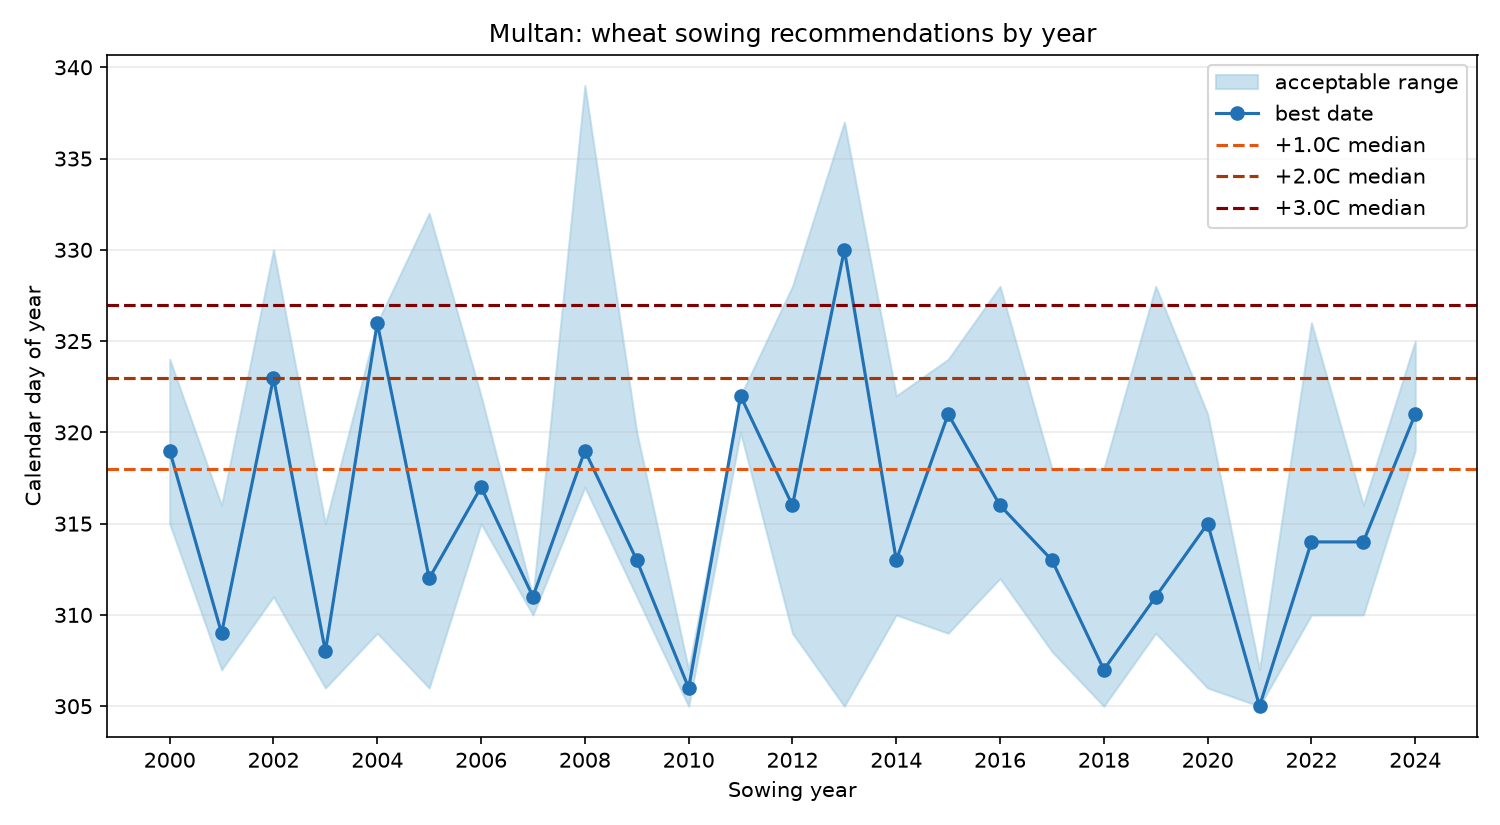
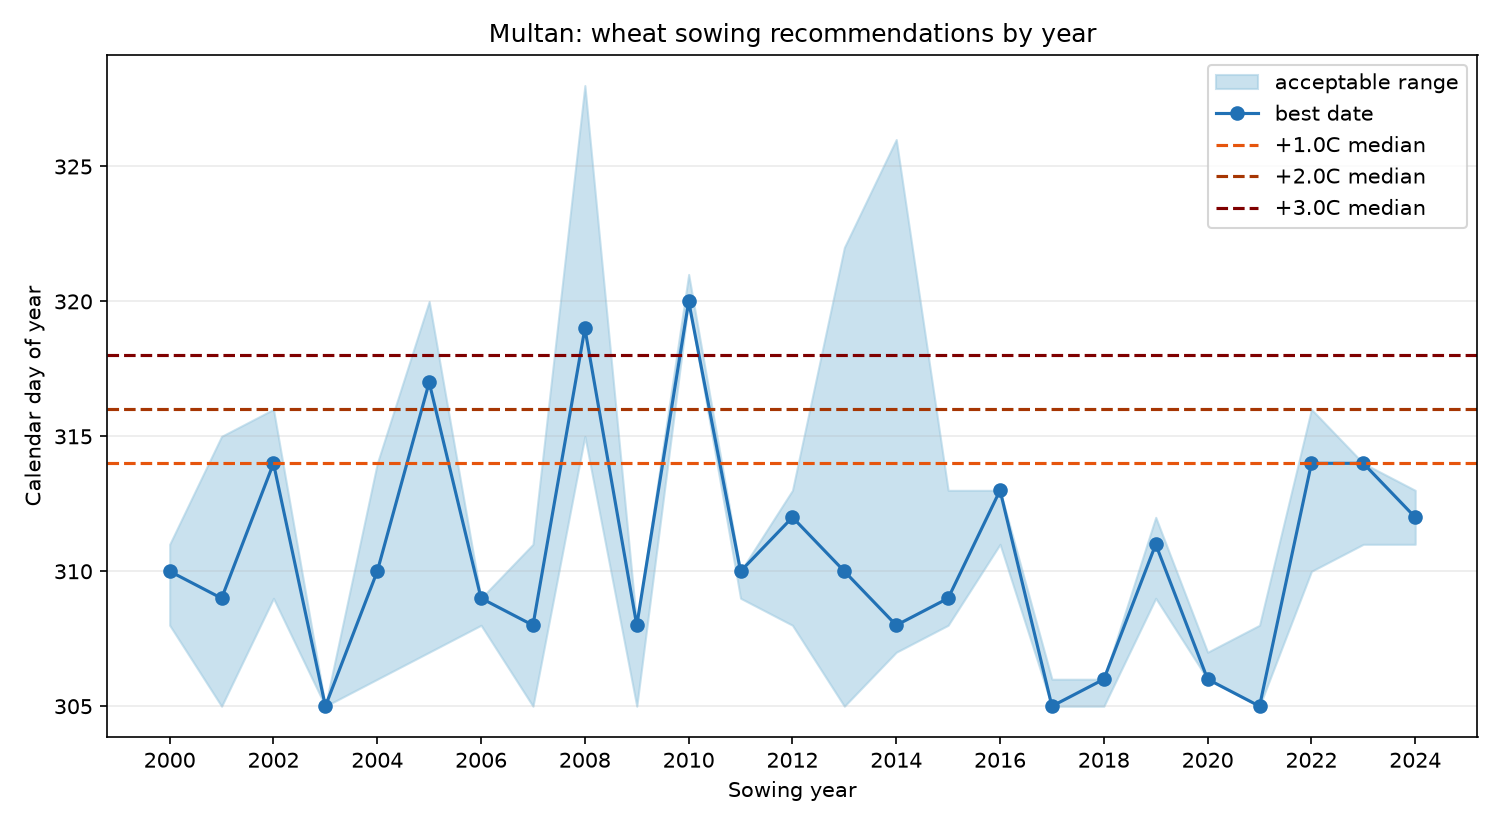
Calibrate sowing model by province
Use province-specific maturity targets, fixed-window sensitivity tables, regenerated charts, and ignore Python bytecode.

diff --git a/advisor.py b/advisor.py
@@ -2,6 +2,9 @@ import json
 import sys
 from pathlib import Path
 
+import matplotlib
+matplotlib.use("Agg")
+import matplotlib.pyplot as plt
 import pandas as pd
 
 from config import DISTRICT_PROVINCE, ModelConfig, WINDOWS
@@ -9,6 +12,7 @@ from sowing_model import (
     calibrate_gdd_total,
     recommend,
     scenario_table,
+    sensitivity,
     summarize,
 )
 
@@ -19,6 +23,12 @@ import sim_core as sc
 
 YEARS = range(2000, 2025)
 RESULTS_DIR = WHEAT_ADVISOR_DIR / "results"
+PROVINCE_TARGET_DAYS = {
+    "punjab": 140,
+    "sindh": 128,
+}
+# Punjab ~140 d from Rehman et al. 2021 (Faisalabad), Sindh ~128 d from
+# Sial et al. 2005 (Tando Jam).
 
 
 def _json_value(value):
@@ -31,17 +41,75 @@ def _json_value(value):
     return value
 
 
+def _make_chart(name, rec, scenarios):
+    chart_rec = rec.copy()
+    for column in ("best_date", "ok_from", "ok_to"):
+        chart_rec[column] = pd.to_datetime(chart_rec[column])
+
+    fig, ax = plt.subplots(figsize=(10, 5.5))
+    years = chart_rec["year"].to_numpy()
+    ax.fill_between(
+        years,
+        chart_rec["ok_from"].dt.dayofyear,
+        chart_rec["ok_to"].dt.dayofyear,
+        color="#9ecae1",
+        alpha=0.55,
+        label="acceptable range",
+    )
+    ax.plot(
+        years,
+        chart_rec["best_date"].dt.dayofyear,
+        "o-",
+        color="#2171b5",
+        label="best date",
+    )
+    for scenario, color in (
+        ("+1.0C", "#e6550d"),
+        ("+2.0C", "#a63603"),
+        ("+3.0C", "#7f0000"),
+    ):
+        row = scenarios.loc[scenarios["scenario"] == scenario]
+        if not row.empty:
+            day = pd.to_datetime(
+                row.iloc[0]["median"], format="%d %b"
+            ).dayofyear
+            ax.axhline(
+                day,
+                color=color,
+                linestyle="--",
+                linewidth=1.5,
+                label=f"{scenario} median",
+            )
+
+    ax.set_title(f"{name}: wheat sowing recommendations by year")
+    ax.set_xlabel("Sowing year")
+    ax.set_ylabel("Calendar day of year")
+    ax.set_xticks(years[::2])
+    ax.grid(True, axis="y", alpha=0.25)
+    ax.legend(loc="best")
+    fig.tight_layout()
+    fig.savefig(RESULTS_DIR / f"{name}_sowing_dates.png", dpi=150)
+    plt.close(fig)
+
+
 def main():
     RESULTS_DIR.mkdir(exist_ok=True)
     results = {}
+    summary_rows = []
 
     for name in DISTRICT_PROVINCE:
         print(f"\nProcessing {name}...")
 
         weather = sc.load(name)
         cfg = ModelConfig()
-        cfg.gdd_total = calibrate_gdd_total(weather, cfg=cfg)
-        window = WINDOWS[DISTRICT_PROVINCE[name]]
+        province = DISTRICT_PROVINCE[name]
+        cfg.gdd_total = calibrate_gdd_total(
+            weather,
+            sow_mmdd="11-18",
+            target_days=PROVINCE_TARGET_DAYS[province],
+            cfg=cfg,
+        )
+        window = WINDOWS[province]
 
         rec = recommend(weather, window, cfg, years=YEARS)
         if rec.empty:
@@ -49,6 +117,19 @@ def main():
 
         summary = summarize(rec, window, cfg)
         scenarios = scenario_table(weather, window, cfg)
+        fixed_sensitivity = sensitivity(
+            weather,
+            window,
+            cfg,
+            heat_thresholds=(33, 34, 35),
+            window_starts=("11-01",),
+            warm_weights=(0.1, 0.5, 1.0),
+        )
+        fixed_sensitivity.to_csv(
+            RESULTS_DIR / f"{name}_sensitivity_fixedwindow.csv",
+            index=False,
+        )
+        _make_chart(name, rec, scenarios)
 
         rec.to_csv(RESULTS_DIR / f"{name}_per_year.csv", index=False)
         scenarios.to_csv(RESULTS_DIR / f"{name}_scenarios.csv", index=False)
@@ -59,24 +140,36 @@ def main():
             "summary": _json_value(summary),
             "scenarios": _json_value(scenarios.to_dict(orient="records")),
         }
+        summary_rows.append(
+            {
+                "district": name,
+                "gdd_total": cfg.gdd_total,
+                "median_days_to_maturity": summary[
+                    "median_days_to_maturity"
+                ],
+                "median_best_date": summary["median"],
+                "median_latest_ok_date": summary["median_latest_ok"],
+                "pct_edge": summary["pct_edge"],
+                "pct_ties": summary["pct_ties"],
+            }
+        )
 
         print(f"{name}: calibrated gdd_total = {cfg.gdd_total:.0f}")
-        print(
-            f"  median days to maturity: "
-            f"{summary['median_days_to_maturity']:.1f} "
-            f"(target {cfg.ref_days_to_maturity[0]}-{cfg.ref_days_to_maturity[1]})"
+        median_dates = pd.to_datetime(
+            fixed_sensitivity["median"], format="%d %b"
         )
+        movement = int((median_dates.max() - median_dates.min()).days)
         print(
-            f"  median recommendation: {summary['median']} "
-            f"(acceptable through {summary['median_latest_ok']})"
+            f"  fixed-window sensitivity movement: {movement} days "
+            f"({median_dates.min():%d %b} to {median_dates.max():%d %b})"
         )
-        print(f"  yearly rows: {len(rec)}")
-        print(rec[["year", "best_date", "ok_from", "ok_to"]].to_string(index=False))
 
     output_path = WHEAT_ADVISOR_DIR / "results.json"
     with output_path.open("w", encoding="utf-8") as f:
         json.dump(results, f, ensure_ascii=False, indent=2)
 
+    print("\nDistrict summary")
+    print(pd.DataFrame(summary_rows).to_string(index=False, float_format="%.1f"))
     print(f"\nSaved results to {output_path}")
     print(f"Saved per-year and scenario CSV files to {RESULTS_DIR}")
 
